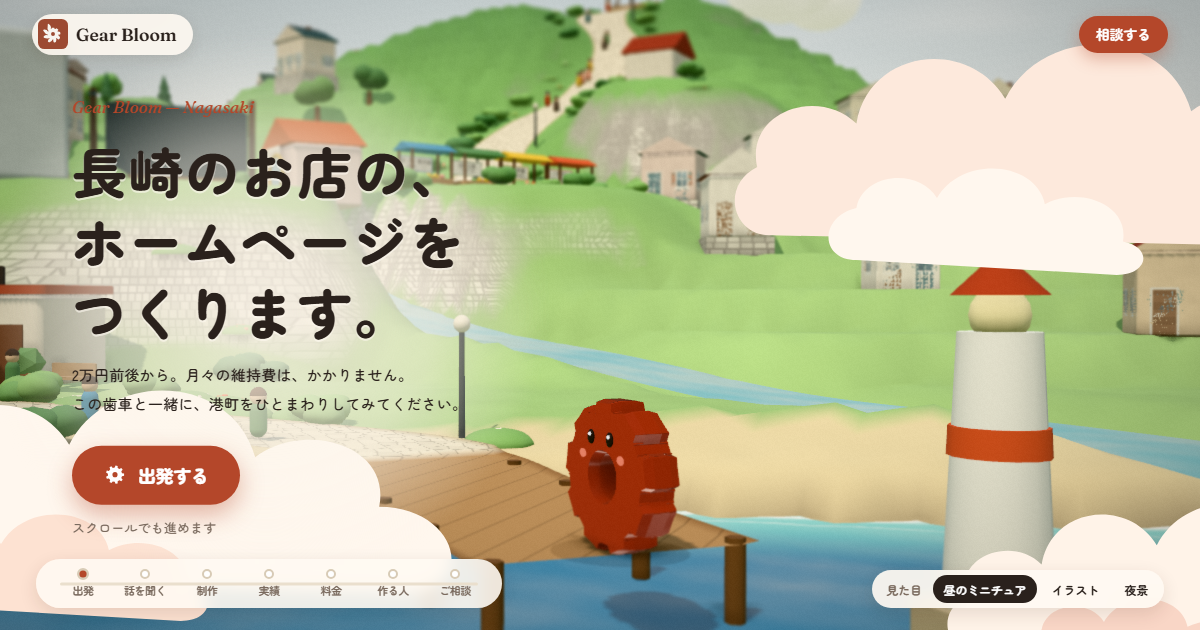
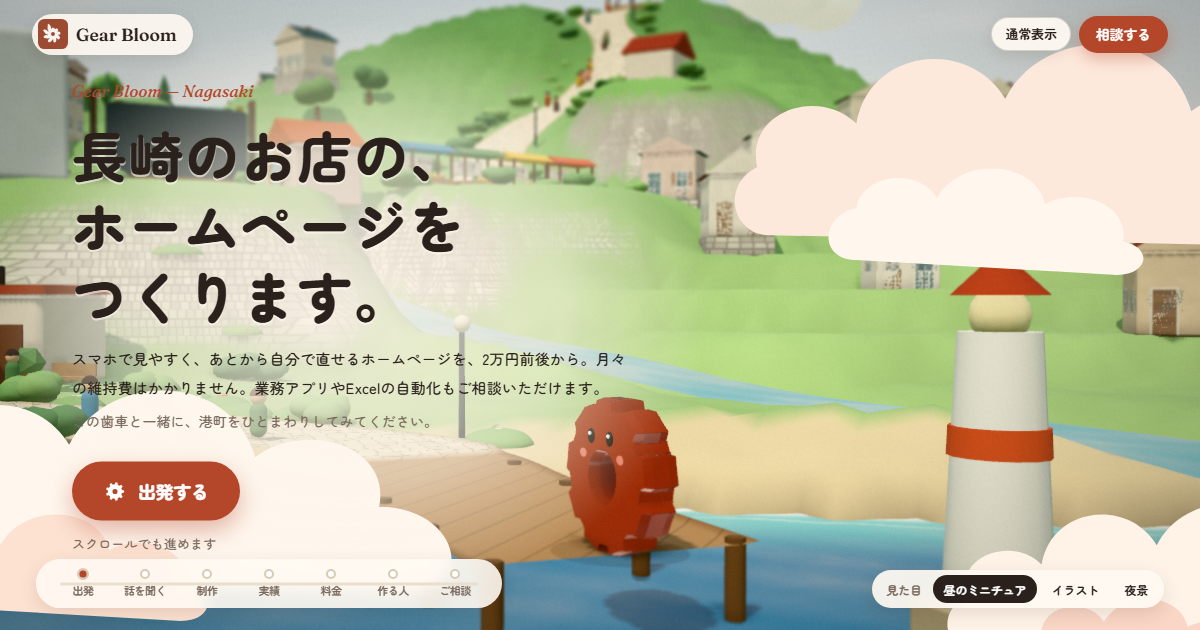
Gear Bloom新サイト試作：最後の見下ろしで全メニュー表示、文章の見直し、通常表示ボタン、読み込み中の歯車

diff --git a/s/1ac822bf3d69bbd7/index.html b/s/1ac822bf3d69bbd7/index.html
@@ -106,7 +106,8 @@ html[data-style="night"] .intro h1{text-shadow:none}
 .route a span{white-space:nowrap}
 
 .loading{position:fixed;inset:0;z-index:50;display:grid;place-items:center;background:var(--cream);transition:opacity .8s}
-.loading img{width:64px;height:64px;animation:spin 1.6s linear infinite}
+.loading .ld{display:flex;flex-direction:column;align-items:center;justify-content:center}
+.loading svg{width:78px;height:78px;display:block}
 .loading p{margin-top:12px;font-size:.85rem;color:var(--mute);text-align:center}
 @keyframes spin{to{rotate:360deg}}
 html.ready .loading{opacity:0;pointer-events:none}
@@ -196,6 +197,14 @@ html.at-intro .styleSw{opacity:1;pointer-events:auto}
   .intro h1{font-size:1.7rem}.intro p{font-size:.85rem}.intro .go{margin-top:1em;padding:.7em 1.4em}
 }
 
+
+.top .tr{display:flex;gap:8px;align-items:center}
+.classic{font-weight:700;font-size:.8rem;text-decoration:none;color:var(--ink);background:rgba(255,250,242,.92);backdrop-filter:blur(8px);border:1.5px solid rgba(42,33,28,.18);border-radius:99px;padding:.5em 1.05em;box-shadow:0 4px 14px rgba(60,35,20,.1)}
+.classic:hover{background:#fff}
+.intro .sub{margin-top:.4em;font-size:.88rem;color:var(--mute)}
+@media (max-width:760px){.classic{font-size:.72rem;padding:.5em .85em}.intro p{font-size:.88rem}.intro .sub{font-size:.8rem}}
+@media (max-width:370px){.brand{font-size:.9rem}}
+
 html.no3d #c,html.no3d .clouds,html.no3d #labels,html.no3d .route,html.no3d .loading,html.no3d #track{display:none}
 html.no3d .intro,html.no3d .panel{position:relative;inset:auto;translate:none;opacity:1;width:auto;max-width:720px;margin:24px auto;pointer-events:auto}
 html.no3d .intro{margin-top:120px}
@@ -203,16 +212,16 @@ html.no3d .intro{margin-top:120px}
 </head>
 <body>
 
-<div class="loading"><div><img src="https://gearbloom.jp/favicon.svg" alt=""><p>港町を組み立てています</p></div></div>
+<div class="loading"><div class="ld"><svg viewBox="-62 -62 124 124" aria-hidden="true"><path fill="#b4472a" fill-rule="evenodd" d="M0.00 -39.00 L1.13 -38.98 L2.27 -38.93 L3.40 -38.85 L4.53 -38.74 L5.75 -39.29 L7.51 -42.57 L9.45 -45.79 L11.53 -48.65 L12.94 -48.30 L14.34 -47.90 L15.73 -47.46 L17.10 -46.98 L18.46 -46.47 L19.80 -45.91 L21.13 -45.32 L22.44 -44.68 L22.19 -41.16 L21.62 -37.44 L20.84 -33.79 L21.43 -32.58 L22.37 -31.95 L23.29 -31.28 L24.19 -30.59 L25.07 -29.88 L25.93 -29.13 L26.76 -28.37 L27.58 -27.58 L28.37 -26.76 L29.66 -26.40 L33.12 -27.79 L36.68 -29.00 L40.11 -29.86 L40.96 -28.68 L41.77 -27.48 L42.56 -26.25 L43.30 -25.00 L44.01 -23.73 L44.68 -22.44 L45.32 -21.13 L45.91 -19.80 L43.45 -17.26 L40.62 -14.79 L37.69 -12.49 L37.36 -11.19 L37.67 -10.09 L37.95 -8.99 L38.19 -7.89 L38.41 -6.77 L38.59 -5.65 L38.74 -4.53 L38.85 -3.40 L38.93 -2.27 L39.69 -1.15 L43.23 -0.00 L46.74 1.36 L49.92 2.91 L49.81 4.36 L49.66 5.80 L49.47 7.25 L49.24 8.68 L48.97 10.11 L48.65 11.53 L48.30 12.94 L47.90 14.34 L44.38 14.71 L40.62 14.79 L36.90 14.66 L35.81 15.45 L35.35 16.48 L34.85 17.50 L34.33 18.51 L33.77 19.50 L33.19 20.47 L32.58 21.43 L31.95 22.37 L31.28 23.29 L31.15 24.63 L33.12 27.79 L34.93 31.08 L36.37 34.31 L35.36 35.36 L34.31 36.37 L33.24 37.35 L32.14 38.30 L31.01 39.22 L29.86 40.11 L28.68 40.96 L27.48 41.77 L24.55 39.80 L21.62 37.44 L18.84 34.95 L17.50 34.85 L16.48 35.35 L15.45 35.81 L14.40 36.24 L13.34 36.65 L12.27 37.02 L11.19 37.36 L10.09 37.67 L8.99 37.95 L8.03 38.88 L7.51 42.57 L6.78 46.26 L5.80 49.66 L4.36 49.81 L2.91 49.92 L1.45 49.98 L0.00 50.00 L-1.45 49.98 L-2.91 49.92 L-4.36 49.81 L-5.80 49.66 L-6.78 46.26 L-7.51 42.57 L-8.03 38.88 L-8.99 37.95 L-10.09 37.67 L-11.19 37.36 L-12.27 37.02 L-13.34 36.65 L-14.40 36.24 L-15.45 35.81 L-16.48 35.35 L-17.50 34.85 L-18.84 34.95 L-21.62 37.44 L-24.55 39.80 L-27.48 41.77 L-28.68 40.96 L-29.86 40.11 L-31.01 39.22 L-32.14 38.30 L-33.24 37.35 L-34.31 36.37 L-35.36 35.36 L-36.37 34.31 L-34.93 31.08 L-33.12 27.79 L-31.15 24.63 L-31.28 23.29 L-31.95 22.37 L-32.58 21.43 L-33.19 20.47 L-33.77 19.50 L-34.33 18.51 L-34.85 17.50 L-35.35 16.48 L-35.81 15.45 L-36.90 14.66 L-40.62 14.79 L-44.38 14.71 L-47.90 14.34 L-48.30 12.94 L-48.65 11.53 L-48.97 10.11 L-49.24 8.68 L-49.47 7.25 L-49.66 5.80 L-49.81 4.36 L-49.92 2.91 L-46.74 1.36 L-43.23 0.00 L-39.69 -1.15 L-38.93 -2.27 L-38.85 -3.40 L-38.74 -4.53 L-38.59 -5.65 L-38.41 -6.77 L-38.19 -7.89 L-37.95 -8.99 L-37.67 -10.09 L-37.36 -11.19 L-37.69 -12.49 L-40.62 -14.79 L-43.45 -17.26 L-45.91 -19.80 L-45.32 -21.13 L-44.68 -22.44 L-44.01 -23.73 L-43.30 -25.00 L-42.56 -26.25 L-41.77 -27.48 L-40.96 -28.68 L-40.11 -29.86 L-36.68 -29.00 L-33.12 -27.79 L-29.66 -26.40 L-28.37 -26.76 L-27.58 -27.58 L-26.76 -28.37 L-25.93 -29.13 L-25.07 -29.88 L-24.19 -30.59 L-23.29 -31.28 L-22.37 -31.95 L-21.43 -32.58 L-20.84 -33.79 L-21.62 -37.44 L-22.19 -41.16 L-22.44 -44.68 L-21.13 -45.32 L-19.80 -45.91 L-18.46 -46.47 L-17.10 -46.98 L-15.73 -47.46 L-14.34 -47.90 L-12.94 -48.30 L-11.53 -48.65 L-9.45 -45.79 L-7.51 -42.57 L-5.75 -39.29 L-4.53 -38.74 L-3.40 -38.85 L-2.27 -38.93 L-1.13 -38.98 Z M-0.00 -13.00 L-3.36 -12.56 L-6.50 -11.26 L-9.19 -9.19 L-11.26 -6.50 L-12.56 -3.36 L-13.00 -0.00 L-12.56 3.36 L-11.26 6.50 L-9.19 9.19 L-6.50 11.26 L-3.36 12.56 L-0.00 13.00 L3.36 12.56 L6.50 11.26 L9.19 9.19 L11.26 6.50 L12.56 3.36 L13.00 0.00 L12.56 -3.36 L11.26 -6.50 L9.19 -9.19 L6.50 -11.26 L3.36 -12.56 Z"><animate attributeName="d" dur="2.8s" repeatCount="indefinite" calcMode="spline" keyTimes="0;.35;.5;.85;1" keySplines=".6 0 .4 1;.6 0 .4 1;.6 0 .4 1;.6 0 .4 1" values="M0.00 -39.00 L1.13 -38.98 L2.27 -38.93 L3.40 -38.85 L4.53 -38.74 L5.75 -39.29 L7.51 -42.57 L9.45 -45.79 L11.53 -48.65 L12.94 -48.30 L14.34 -47.90 L15.73 -47.46 L17.10 -46.98 L18.46 -46.47 L19.80 -45.91 L21.13 -45.32 L22.44 -44.68 L22.19 -41.16 L21.62 -37.44 L20.84 -33.79 L21.43 -32.58 L22.37 -31.95 L23.29 -31.28 L24.19 -30.59 L25.07 -29.88 L25.93 -29.13 L26.76 -28.37 L27.58 -27.58 L28.37 -26.76 L29.66 -26.40 L33.12 -27.79 L36.68 -29.00 L40.11 -29.86 L40.96 -28.68 L41.77 -27.48 L42.56 -26.25 L43.30 -25.00 L44.01 -23.73 L44.68 -22.44 L45.32 -21.13 L45.91 -19.80 L43.45 -17.26 L40.62 -14.79 L37.69 -12.49 L37.36 -11.19 L37.67 -10.09 L37.95 -8.99 L38.19 -7.89 L38.41 -6.77 L38.59 -5.65 L38.74 -4.53 L38.85 -3.40 L38.93 -2.27 L39.69 -1.15 L43.23 -0.00 L46.74 1.36 L49.92 2.91 L49.81 4.36 L49.66 5.80 L49.47 7.25 L49.24 8.68 L48.97 10.11 L48.65 11.53 L48.30 12.94 L47.90 14.34 L44.38 14.71 L40.62 14.79 L36.90 14.66 L35.81 15.45 L35.35 16.48 L34.85 17.50 L34.33 18.51 L33.77 19.50 L33.19 20.47 L32.58 21.43 L31.95 22.37 L31.28 23.29 L31.15 24.63 L33.12 27.79 L34.93 31.08 L36.37 34.31 L35.36 35.36 L34.31 36.37 L33.24 37.35 L32.14 38.30 L31.01 39.22 L29.86 40.11 L28.68 40.96 L27.48 41.77 L24.55 39.80 L21.62 37.44 L18.84 34.95 L17.50 34.85 L16.48 35.35 L15.45 35.81 L14.40 36.24 L13.34 36.65 L12.27 37.02 L11.19 37.36 L10.09 37.67 L8.99 37.95 L8.03 38.88 L7.51 42.57 L6.78 46.26 L5.80 49.66 L4.36 49.81 L2.91 49.92 L1.45 49.98 L0.00 50.00 L-1.45 49.98 L-2.91 49.92 L-4.36 49.81 L-5.80 49.66 L-6.78 46.26 L-7.51 42.57 L-8.03 38.88 L-8.99 37.95 L-10.09 37.67 L-11.19 37.36 L-12.27 37.02 L-13.34 36.65 L-14.40 36.24 L-15.45 35.81 L-16.48 35.35 L-17.50 34.85 L-18.84 34.95 L-21.62 37.44 L-24.55 39.80 L-27.48 41.77 L-28.68 40.96 L-29.86 40.11 L-31.01 39.22 L-32.14 38.30 L-33.24 37.35 L-34.31 36.37 L-35.36 35.36 L-36.37 34.31 L-34.93 31.08 L-33.12 27.79 L-31.15 24.63 L-31.28 23.29 L-31.95 22.37 L-32.58 21.43 L-33.19 20.47 L-33.77 19.50 L-34.33 18.51 L-34.85 17.50 L-35.35 16.48 L-35.81 15.45 L-36.90 14.66 L-40.62 14.79 L-44.38 14.71 L-47.90 14.34 L-48.30 12.94 L-48.65 11.53 L-48.97 10.11 L-49.24 8.68 L-49.47 7.25 L-49.66 5.80 L-49.81 4.36 L-49.92 2.91 L-46.74 1.36 L-43.23 0.00 L-39.69 -1.15 L-38.93 -2.27 L-38.85 -3.40 L-38.74 -4.53 L-38.59 -5.65 L-38.41 -6.77 L-38.19 -7.89 L-37.95 -8.99 L-37.67 -10.09 L-37.36 -11.19 L-37.69 -12.49 L-40.62 -14.79 L-43.45 -17.26 L-45.91 -19.80 L-45.32 -21.13 L-44.68 -22.44 L-44.01 -23.73 L-43.30 -25.00 L-42.56 -26.25 L-41.77 -27.48 L-40.96 -28.68 L-40.11 -29.86 L-36.68 -29.00 L-33.12 -27.79 L-29.66 -26.40 L-28.37 -26.76 L-27.58 -27.58 L-26.76 -28.37 L-25.93 -29.13 L-25.07 -29.88 L-24.19 -30.59 L-23.29 -31.28 L-22.37 -31.95 L-21.43 -32.58 L-20.84 -33.79 L-21.62 -37.44 L-22.19 -41.16 L-22.44 -44.68 L-21.13 -45.32 L-19.80 -45.91 L-18.46 -46.47 L-17.10 -46.98 L-15.73 -47.46 L-14.34 -47.90 L-12.94 -48.30 L-11.53 -48.65 L-9.45 -45.79 L-7.51 -42.57 L-5.75 -39.29 L-4.53 -38.74 L-3.40 -38.85 L-2.27 -38.93 L-1.13 -38.98 Z M-0.00 -13.00 L-3.36 -12.56 L-6.50 -11.26 L-9.19 -9.19 L-11.26 -6.50 L-12.56 -3.36 L-13.00 -0.00 L-12.56 3.36 L-11.26 6.50 L-9.19 9.19 L-6.50 11.26 L-3.36 12.56 L-0.00 13.00 L3.36 12.56 L6.50 11.26 L9.19 9.19 L11.26 6.50 L12.56 3.36 L13.00 0.00 L12.56 -3.36 L11.26 -6.50 L9.19 -9.19 L6.50 -11.26 L3.36 -12.56 Z;M0.00 -57.00 L1.65 -56.65 L3.24 -55.63 L4.72 -53.96 L6.05 -51.72 L7.18 -49.00 L8.10 -45.91 L8.79 -42.58 L9.28 -39.15 L9.59 -35.77 L9.77 -32.64 L9.93 -29.96 L10.26 -28.19 L11.65 -29.33 L13.49 -31.28 L15.65 -33.57 L18.06 -35.95 L20.63 -38.27 L23.31 -40.37 L26.00 -42.15 L28.62 -43.51 L31.07 -44.37 L33.27 -44.69 L35.15 -44.46 L36.64 -43.66 L37.68 -42.34 L38.24 -40.53 L38.30 -38.30 L37.88 -35.74 L37.00 -32.92 L35.71 -29.97 L34.10 -26.97 L32.27 -24.02 L30.34 -21.24 L28.46 -18.72 L26.86 -16.57 L25.98 -15.00 L27.78 -14.98 L30.45 -15.29 L33.57 -15.65 L36.94 -15.93 L40.41 -16.05 L43.81 -15.95 L47.01 -15.58 L49.89 -14.94 L52.32 -14.02 L54.22 -12.85 L55.51 -11.46 L56.13 -9.90 L56.08 -8.21 L55.34 -6.47 L53.96 -4.72 L51.99 -3.03 L49.51 -1.44 L46.62 -0.00 L43.46 1.26 L40.16 2.34 L36.90 3.23 L33.84 3.96 L31.23 4.57 L29.54 5.21 L30.91 6.38 L33.15 7.86 L35.77 9.59 L38.54 11.54 L41.27 13.68 L43.81 15.95 L46.03 18.29 L47.82 20.63 L49.09 22.89 L49.79 25.01 L49.89 26.90 L49.36 28.50 L48.24 29.75 L46.55 30.62 L44.37 31.07 L41.77 31.10 L38.85 30.72 L35.71 29.97 L32.48 28.90 L29.26 27.61 L26.19 26.19 L23.38 24.78 L20.98 23.58 L19.28 22.98 L19.58 24.76 L20.34 27.33 L21.24 30.34 L22.11 33.61 L22.82 37.00 L23.31 40.37 L23.51 43.59 L23.37 46.54 L22.89 49.09 L22.07 51.16 L20.93 52.67 L19.50 53.56 L17.83 53.80 L15.98 53.38 L14.02 52.32 L12.01 50.67 L10.02 48.50 L8.10 45.91 L6.30 43.02 L4.67 39.96 L3.23 36.90 L1.98 34.01 L0.92 31.55 L0.00 30.00 L-0.92 31.55 L-1.98 34.01 L-3.23 36.90 L-4.67 39.96 L-6.30 43.02 L-8.10 45.91 L-10.02 48.50 L-12.01 50.67 L-14.02 52.32 L-15.98 53.38 L-17.83 53.80 L-19.50 53.56 L-20.93 52.67 L-22.07 51.16 L-22.89 49.09 L-23.37 46.54 L-23.51 43.59 L-23.31 40.37 L-22.82 37.00 L-22.11 33.61 L-21.24 30.34 L-20.34 27.33 L-19.58 24.76 L-19.28 22.98 L-20.98 23.58 L-23.38 24.78 L-26.19 26.19 L-29.26 27.61 L-32.48 28.90 L-35.71 29.97 L-38.85 30.72 L-41.77 31.10 L-44.37 31.07 L-46.55 30.62 L-48.24 29.75 L-49.36 28.50 L-49.89 26.90 L-49.79 25.01 L-49.09 22.89 L-47.82 20.63 L-46.03 18.29 L-43.81 15.95 L-41.27 13.68 L-38.54 11.54 L-35.77 9.59 L-33.15 7.86 L-30.91 6.38 L-29.54 5.21 L-31.23 4.57 L-33.84 3.96 L-36.90 3.23 L-40.16 2.34 L-43.46 1.26 L-46.62 0.00 L-49.51 -1.44 L-51.99 -3.03 L-53.96 -4.72 L-55.34 -6.47 L-56.08 -8.21 L-56.13 -9.90 L-55.51 -11.46 L-54.22 -12.85 L-52.32 -14.02 L-49.89 -14.94 L-47.01 -15.58 L-43.81 -15.95 L-40.41 -16.05 L-36.94 -15.93 L-33.57 -15.65 L-30.45 -15.29 L-27.78 -14.98 L-25.98 -15.00 L-26.86 -16.57 L-28.46 -18.72 L-30.34 -21.24 L-32.27 -24.02 L-34.10 -26.97 L-35.71 -29.97 L-37.00 -32.92 L-37.88 -35.74 L-38.30 -38.30 L-38.24 -40.53 L-37.68 -42.34 L-36.64 -43.66 L-35.15 -44.46 L-33.27 -44.69 L-31.07 -44.37 L-28.62 -43.51 L-26.00 -42.15 L-23.31 -40.37 L-20.63 -38.27 L-18.06 -35.95 L-15.65 -33.57 L-13.49 -31.28 L-11.65 -29.33 L-10.26 -28.19 L-9.93 -29.96 L-9.77 -32.64 L-9.59 -35.77 L-9.28 -39.15 L-8.79 -42.58 L-8.10 -45.91 L-7.18 -49.00 L-6.05 -51.72 L-4.72 -53.96 L-3.24 -55.63 L-1.65 -56.65 Z M-0.00 -13.00 L-3.36 -12.56 L-6.50 -11.26 L-9.19 -9.19 L-11.26 -6.50 L-12.56 -3.36 L-13.00 -0.00 L-12.56 3.36 L-11.26 6.50 L-9.19 9.19 L-6.50 11.26 L-3.36 12.56 L-0.00 13.00 L3.36 12.56 L6.50 11.26 L9.19 9.19 L11.26 6.50 L12.56 3.36 L13.00 0.00 L12.56 -3.36 L11.26 -6.50 L9.19 -9.19 L6.50 -11.26 L3.36 -12.56 Z;M0.00 -57.00 L1.65 -56.65 L3.24 -55.63 L4.72 -53.96 L6.05 -51.72 L7.18 -49.00 L8.10 -45.91 L8.79 -42.58 L9.28 -39.15 L9.59 -35.77 L9.77 -32.64 L9.93 -29.96 L10.26 -28.19 L11.65 -29.33 L13.49 -31.28 L15.65 -33.57 L18.06 -35.95 L20.63 -38.27 L23.31 -40.37 L26.00 -42.15 L28.62 -43.51 L31.07 -44.37 L33.27 -44.69 L35.15 -44.46 L36.64 -43.66 L37.68 -42.34 L38.24 -40.53 L38.30 -38.30 L37.88 -35.74 L37.00 -32.92 L35.71 -29.97 L34.10 -26.97 L32.27 -24.02 L30.34 -21.24 L28.46 -18.72 L26.86 -16.57 L25.98 -15.00 L27.78 -14.98 L30.45 -15.29 L33.57 -15.65 L36.94 -15.93 L40.41 -16.05 L43.81 -15.95 L47.01 -15.58 L49.89 -14.94 L52.32 -14.02 L54.22 -12.85 L55.51 -11.46 L56.13 -9.90 L56.08 -8.21 L55.34 -6.47 L53.96 -4.72 L51.99 -3.03 L49.51 -1.44 L46.62 -0.00 L43.46 1.26 L40.16 2.34 L36.90 3.23 L33.84 3.96 L31.23 4.57 L29.54 5.21 L30.91 6.38 L33.15 7.86 L35.77 9.59 L38.54 11.54 L41.27 13.68 L43.81 15.95 L46.03 18.29 L47.82 20.63 L49.09 22.89 L49.79 25.01 L49.89 26.90 L49.36 28.50 L48.24 29.75 L46.55 30.62 L44.37 31.07 L41.77 31.10 L38.85 30.72 L35.71 29.97 L32.48 28.90 L29.26 27.61 L26.19 26.19 L23.38 24.78 L20.98 23.58 L19.28 22.98 L19.58 24.76 L20.34 27.33 L21.24 30.34 L22.11 33.61 L22.82 37.00 L23.31 40.37 L23.51 43.59 L23.37 46.54 L22.89 49.09 L22.07 51.16 L20.93 52.67 L19.50 53.56 L17.83 53.80 L15.98 53.38 L14.02 52.32 L12.01 50.67 L10.02 48.50 L8.10 45.91 L6.30 43.02 L4.67 39.96 L3.23 36.90 L1.98 34.01 L0.92 31.55 L0.00 30.00 L-0.92 31.55 L-1.98 34.01 L-3.23 36.90 L-4.67 39.96 L-6.30 43.02 L-8.10 45.91 L-10.02 48.50 L-12.01 50.67 L-14.02 52.32 L-15.98 53.38 L-17.83 53.80 L-19.50 53.56 L-20.93 52.67 L-22.07 51.16 L-22.89 49.09 L-23.37 46.54 L-23.51 43.59 L-23.31 40.37 L-22.82 37.00 L-22.11 33.61 L-21.24 30.34 L-20.34 27.33 L-19.58 24.76 L-19.28 22.98 L-20.98 23.58 L-23.38 24.78 L-26.19 26.19 L-29.26 27.61 L-32.48 28.90 L-35.71 29.97 L-38.85 30.72 L-41.77 31.10 L-44.37 31.07 L-46.55 30.62 L-48.24 29.75 L-49.36 28.50 L-49.89 26.90 L-49.79 25.01 L-49.09 22.89 L-47.82 20.63 L-46.03 18.29 L-43.81 15.95 L-41.27 13.68 L-38.54 11.54 L-35.77 9.59 L-33.15 7.86 L-30.91 6.38 L-29.54 5.21 L-31.23 4.57 L-33.84 3.96 L-36.90 3.23 L-40.16 2.34 L-43.46 1.26 L-46.62 0.00 L-49.51 -1.44 L-51.99 -3.03 L-53.96 -4.72 L-55.34 -6.47 L-56.08 -8.21 L-56.13 -9.90 L-55.51 -11.46 L-54.22 -12.85 L-52.32 -14.02 L-49.89 -14.94 L-47.01 -15.58 L-43.81 -15.95 L-40.41 -16.05 L-36.94 -15.93 L-33.57 -15.65 L-30.45 -15.29 L-27.78 -14.98 L-25.98 -15.00 L-26.86 -16.57 L-28.46 -18.72 L-30.34 -21.24 L-32.27 -24.02 L-34.10 -26.97 L-35.71 -29.97 L-37.00 -32.92 L-37.88 -35.74 L-38.30 -38.30 L-38.24 -40.53 L-37.68 -42.34 L-36.64 -43.66 L-35.15 -44.46 L-33.27 -44.69 L-31.07 -44.37 L-28.62 -43.51 L-26.00 -42.15 L-23.31 -40.37 L-20.63 -38.27 L-18.06 -35.95 L-15.65 -33.57 L-13.49 -31.28 L-11.65 -29.33 L-10.26 -28.19 L-9.93 -29.96 L-9.77 -32.64 L-9.59 -35.77 L-9.28 -39.15 L-8.79 -42.58 L-8.10 -45.91 L-7.18 -49.00 L-6.05 -51.72 L-4.72 -53.96 L-3.24 -55.63 L-1.65 -56.65 Z M-0.00 -13.00 L-3.36 -12.56 L-6.50 -11.26 L-9.19 -9.19 L-11.26 -6.50 L-12.56 -3.36 L-13.00 -0.00 L-12.56 3.36 L-11.26 6.50 L-9.19 9.19 L-6.50 11.26 L-3.36 12.56 L-0.00 13.00 L3.36 12.56 L6.50 11.26 L9.19 9.19 L11.26 6.50 L12.56 3.36 L13.00 0.00 L12.56 -3.36 L11.26 -6.50 L9.19 -9.19 L6.50 -11.26 L3.36 -12.56 Z;M0.00 -39.00 L1.13 -38.98 L2.27 -38.93 L3.40 -38.85 L4.53 -38.74 L5.75 -39.29 L7.51 -42.57 L9.45 -45.79 L11.53 -48.65 L12.94 -48.30 L14.34 -47.90 L15.73 -47.46 L17.10 -46.98 L18.46 -46.47 L19.80 -45.91 L21.13 -45.32 L22.44 -44.68 L22.19 -41.16 L21.62 -37.44 L20.84 -33.79 L21.43 -32.58 L22.37 -31.95 L23.29 -31.28 L24.19 -30.59 L25.07 -29.88 L25.93 -29.13 L26.76 -28.37 L27.58 -27.58 L28.37 -26.76 L29.66 -26.40 L33.12 -27.79 L36.68 -29.00 L40.11 -29.86 L40.96 -28.68 L41.77 -27.48 L42.56 -26.25 L43.30 -25.00 L44.01 -23.73 L44.68 -22.44 L45.32 -21.13 L45.91 -19.80 L43.45 -17.26 L40.62 -14.79 L37.69 -12.49 L37.36 -11.19 L37.67 -10.09 L37.95 -8.99 L38.19 -7.89 L38.41 -6.77 L38.59 -5.65 L38.74 -4.53 L38.85 -3.40 L38.93 -2.27 L39.69 -1.15 L43.23 -0.00 L46.74 1.36 L49.92 2.91 L49.81 4.36 L49.66 5.80 L49.47 7.25 L49.24 8.68 L48.97 10.11 L48.65 11.53 L48.30 12.94 L47.90 14.34 L44.38 14.71 L40.62 14.79 L36.90 14.66 L35.81 15.45 L35.35 16.48 L34.85 17.50 L34.33 18.51 L33.77 19.50 L33.19 20.47 L32.58 21.43 L31.95 22.37 L31.28 23.29 L31.15 24.63 L33.12 27.79 L34.93 31.08 L36.37 34.31 L35.36 35.36 L34.31 36.37 L33.24 37.35 L32.14 38.30 L31.01 39.22 L29.86 40.11 L28.68 40.96 L27.48 41.77 L24.55 39.80 L21.62 37.44 L18.84 34.95 L17.50 34.85 L16.48 35.35 L15.45 35.81 L14.40 36.24 L13.34 36.65 L12.27 37.02 L11.19 37.36 L10.09 37.67 L8.99 37.95 L8.03 38.88 L7.51 42.57 L6.78 46.26 L5.80 49.66 L4.36 49.81 L2.91 49.92 L1.45 49.98 L0.00 50.00 L-1.45 49.98 L-2.91 49.92 L-4.36 49.81 L-5.80 49.66 L-6.78 46.26 L-7.51 42.57 L-8.03 38.88 L-8.99 37.95 L-10.09 37.67 L-11.19 37.36 L-12.27 37.02 L-13.34 36.65 L-14.40 36.24 L-15.45 35.81 L-16.48 35.35 L-17.50 34.85 L-18.84 34.95 L-21.62 37.44 L-24.55 39.80 L-27.48 41.77 L-28.68 40.96 L-29.86 40.11 L-31.01 39.22 L-32.14 38.30 L-33.24 37.35 L-34.31 36.37 L-35.36 35.36 L-36.37 34.31 L-34.93 31.08 L-33.12 27.79 L-31.15 24.63 L-31.28 23.29 L-31.95 22.37 L-32.58 21.43 L-33.19 20.47 L-33.77 19.50 L-34.33 18.51 L-34.85 17.50 L-35.35 16.48 L-35.81 15.45 L-36.90 14.66 L-40.62 14.79 L-44.38 14.71 L-47.90 14.34 L-48.30 12.94 L-48.65 11.53 L-48.97 10.11 L-49.24 8.68 L-49.47 7.25 L-49.66 5.80 L-49.81 4.36 L-49.92 2.91 L-46.74 1.36 L-43.23 0.00 L-39.69 -1.15 L-38.93 -2.27 L-38.85 -3.40 L-38.74 -4.53 L-38.59 -5.65 L-38.41 -6.77 L-38.19 -7.89 L-37.95 -8.99 L-37.67 -10.09 L-37.36 -11.19 L-37.69 -12.49 L-40.62 -14.79 L-43.45 -17.26 L-45.91 -19.80 L-45.32 -21.13 L-44.68 -22.44 L-44.01 -23.73 L-43.30 -25.00 L-42.56 -26.25 L-41.77 -27.48 L-40.96 -28.68 L-40.11 -29.86 L-36.68 -29.00 L-33.12 -27.79 L-29.66 -26.40 L-28.37 -26.76 L-27.58 -27.58 L-26.76 -28.37 L-25.93 -29.13 L-25.07 -29.88 L-24.19 -30.59 L-23.29 -31.28 L-22.37 -31.95 L-21.43 -32.58 L-20.84 -33.79 L-21.62 -37.44 L-22.19 -41.16 L-22.44 -44.68 L-21.13 -45.32 L-19.80 -45.91 L-18.46 -46.47 L-17.10 -46.98 L-15.73 -47.46 L-14.34 -47.90 L-12.94 -48.30 L-11.53 -48.65 L-9.45 -45.79 L-7.51 -42.57 L-5.75 -39.29 L-4.53 -38.74 L-3.40 -38.85 L-2.27 -38.93 L-1.13 -38.98 Z M-0.00 -13.00 L-3.36 -12.56 L-6.50 -11.26 L-9.19 -9.19 L-11.26 -6.50 L-12.56 -3.36 L-13.00 -0.00 L-12.56 3.36 L-11.26 6.50 L-9.19 9.19 L-6.50 11.26 L-3.36 12.56 L-0.00 13.00 L3.36 12.56 L6.50 11.26 L9.19 9.19 L11.26 6.50 L12.56 3.36 L13.00 0.00 L12.56 -3.36 L11.26 -6.50 L9.19 -9.19 L6.50 -11.26 L3.36 -12.56 Z;M0.00 -39.00 L1.13 -38.98 L2.27 -38.93 L3.40 -38.85 L4.53 -38.74 L5.75 -39.29 L7.51 -42.57 L9.45 -45.79 L11.53 -48.65 L12.94 -48.30 L14.34 -47.90 L15.73 -47.46 L17.10 -46.98 L18.46 -46.47 L19.80 -45.91 L21.13 -45.32 L22.44 -44.68 L22.19 -41.16 L21.62 -37.44 L20.84 -33.79 L21.43 -32.58 L22.37 -31.95 L23.29 -31.28 L24.19 -30.59 L25.07 -29.88 L25.93 -29.13 L26.76 -28.37 L27.58 -27.58 L28.37 -26.76 L29.66 -26.40 L33.12 -27.79 L36.68 -29.00 L40.11 -29.86 L40.96 -28.68 L41.77 -27.48 L42.56 -26.25 L43.30 -25.00 L44.01 -23.73 L44.68 -22.44 L45.32 -21.13 L45.91 -19.80 L43.45 -17.26 L40.62 -14.79 L37.69 -12.49 L37.36 -11.19 L37.67 -10.09 L37.95 -8.99 L38.19 -7.89 L38.41 -6.77 L38.59 -5.65 L38.74 -4.53 L38.85 -3.40 L38.93 -2.27 L39.69 -1.15 L43.23 -0.00 L46.74 1.36 L49.92 2.91 L49.81 4.36 L49.66 5.80 L49.47 7.25 L49.24 8.68 L48.97 10.11 L48.65 11.53 L48.30 12.94 L47.90 14.34 L44.38 14.71 L40.62 14.79 L36.90 14.66 L35.81 15.45 L35.35 16.48 L34.85 17.50 L34.33 18.51 L33.77 19.50 L33.19 20.47 L32.58 21.43 L31.95 22.37 L31.28 23.29 L31.15 24.63 L33.12 27.79 L34.93 31.08 L36.37 34.31 L35.36 35.36 L34.31 36.37 L33.24 37.35 L32.14 38.30 L31.01 39.22 L29.86 40.11 L28.68 40.96 L27.48 41.77 L24.55 39.80 L21.62 37.44 L18.84 34.95 L17.50 34.85 L16.48 35.35 L15.45 35.81 L14.40 36.24 L13.34 36.65 L12.27 37.02 L11.19 37.36 L10.09 37.67 L8.99 37.95 L8.03 38.88 L7.51 42.57 L6.78 46.26 L5.80 49.66 L4.36 49.81 L2.91 49.92 L1.45 49.98 L0.00 50.00 L-1.45 49.98 L-2.91 49.92 L-4.36 49.81 L-5.80 49.66 L-6.78 46.26 L-7.51 42.57 L-8.03 38.88 L-8.99 37.95 L-10.09 37.67 L-11.19 37.36 L-12.27 37.02 L-13.34 36.65 L-14.40 36.24 L-15.45 35.81 L-16.48 35.35 L-17.50 34.85 L-18.84 34.95 L-21.62 37.44 L-24.55 39.80 L-27.48 41.77 L-28.68 40.96 L-29.86 40.11 L-31.01 39.22 L-32.14 38.30 L-33.24 37.35 L-34.31 36.37 L-35.36 35.36 L-36.37 34.31 L-34.93 31.08 L-33.12 27.79 L-31.15 24.63 L-31.28 23.29 L-31.95 22.37 L-32.58 21.43 L-33.19 20.47 L-33.77 19.50 L-34.33 18.51 L-34.85 17.50 L-35.35 16.48 L-35.81 15.45 L-36.90 14.66 L-40.62 14.79 L-44.38 14.71 L-47.90 14.34 L-48.30 12.94 L-48.65 11.53 L-48.97 10.11 L-49.24 8.68 L-49.47 7.25 L-49.66 5.80 L-49.81 4.36 L-49.92 2.91 L-46.74 1.36 L-43.23 0.00 L-39.69 -1.15 L-38.93 -2.27 L-38.85 -3.40 L-38.74 -4.53 L-38.59 -5.65 L-38.41 -6.77 L-38.19 -7.89 L-37.95 -8.99 L-37.67 -10.09 L-37.36 -11.19 L-37.69 -12.49 L-40.62 -14.79 L-43.45 -17.26 L-45.91 -19.80 L-45.32 -21.13 L-44.68 -22.44 L-44.01 -23.73 L-43.30 -25.00 L-42.56 -26.25 L-41.77 -27.48 L-40.96 -28.68 L-40.11 -29.86 L-36.68 -29.00 L-33.12 -27.79 L-29.66 -26.40 L-28.37 -26.76 L-27.58 -27.58 L-26.76 -28.37 L-25.93 -29.13 L-25.07 -29.88 L-24.19 -30.59 L-23.29 -31.28 L-22.37 -31.95 L-21.43 -32.58 L-20.84 -33.79 L-21.62 -37.44 L-22.19 -41.16 L-22.44 -44.68 L-21.13 -45.32 L-19.80 -45.91 L-18.46 -46.47 L-17.10 -46.98 L-15.73 -47.46 L-14.34 -47.90 L-12.94 -48.30 L-11.53 -48.65 L-9.45 -45.79 L-7.51 -42.57 L-5.75 -39.29 L-4.53 -38.74 L-3.40 -38.85 L-2.27 -38.93 L-1.13 -38.98 Z M-0.00 -13.00 L-3.36 -12.56 L-6.50 -11.26 L-9.19 -9.19 L-11.26 -6.50 L-12.56 -3.36 L-13.00 -0.00 L-12.56 3.36 L-11.26 6.50 L-9.19 9.19 L-6.50 11.26 L-3.36 12.56 L-0.00 13.00 L3.36 12.56 L6.50 11.26 L9.19 9.19 L11.26 6.50 L12.56 3.36 L13.00 0.00 L12.56 -3.36 L11.26 -6.50 L9.19 -9.19 L6.50 -11.26 L3.36 -12.56 Z"/><animate attributeName="fill" dur="2.8s" repeatCount="indefinite" keyTimes="0;.35;.5;.85;1" values="#b4472a;#e2653f;#e2653f;#b4472a;#b4472a"/><animateTransform attributeName="transform" type="rotate" from="0" to="360" dur="5.6s" repeatCount="indefinite"/></path></svg><p>港町を組み立てています</p></div></div>
 <canvas id="c" aria-hidden="true"></canvas>
 <div id="labels"></div>
-<header class="top"><a class="brand" href="#"><img src="https://gearbloom.jp/favicon.svg" alt="">Gear Bloom</a><a class="dm" href="https://www.instagram.com/gearbloom/" target="_blank" rel="noopener">相談する</a></header>
+<header class="top"><a class="brand" href="#"><img src="https://gearbloom.jp/favicon.svg" alt="">Gear Bloom</a><nav class="tr"><a class="classic" href="https://gearbloom.jp/" title="文字と写真で、すぐ読めるページに切り替えます">通常表示</a><a class="dm" href="https://www.instagram.com/gearbloom/" target="_blank" rel="noopener">相談する</a></nav></header>
 <div class="clouds" id="clouds" aria-hidden="true"><svg class="c1" viewBox="0 0 600 300"><path fill="#fff7ee" d="M40 230 C 10 230 0 190 30 175 C 20 130 80 110 110 140 C 120 80 200 70 230 120 C 260 60 360 60 380 130 C 420 100 490 120 480 170 C 540 170 560 230 510 240 Z"/><path fill="#fde2d2" d="M110 250 C 80 250 80 215 110 208 C 115 180 160 175 175 200 C 195 165 255 170 262 205 C 290 190 330 205 325 235 C 350 240 345 262 320 262 Z"/></svg><svg class="c2" viewBox="0 0 600 300"><path fill="#fde9dc" d="M40 230 C 10 230 0 190 30 175 C 20 130 80 110 110 140 C 120 80 200 70 230 120 C 260 60 360 60 380 130 C 420 100 490 120 480 170 C 540 170 560 230 510 240 Z"/><path fill="#fff7ee" d="M110 250 C 80 250 80 215 110 208 C 115 180 160 175 175 200 C 195 165 255 170 262 205 C 290 190 330 205 325 235 C 350 240 345 262 320 262 Z"/></svg><svg class="c3" viewBox="0 0 600 300"><path fill="#fff3e8" d="M40 230 C 10 230 0 190 30 175 C 20 130 80 110 110 140 C 120 80 200 70 230 120 C 260 60 360 60 380 130 C 420 100 490 120 480 170 C 540 170 560 230 510 240 Z"/><path fill="#f9d6c6" d="M110 250 C 80 250 80 215 110 208 C 115 180 160 175 175 200 C 195 165 255 170 262 205 C 290 190 330 205 325 235 C 350 240 345 262 320 262 Z"/></svg></div>
 
 <section class="intro" id="intro">
   <span class="tag">Gear Bloom — Nagasaki</span>
   <h1>長崎のお店の、<br>ホームページを<br>つくります。</h1>
-  <p>2万円前後から。月々の維持費は、かかりません。<br>この歯車と一緒に、港町をひとまわりしてみてください。</p>
+  <p>スマホで見やすく、あとから自分で直せるホームページを、2万円前後から。月々の維持費はかかりません。業務アプリやExcelの自動化もご相談いただけます。</p><p class="sub">この歯車と一緒に、港町をひとまわりしてみてください。</p>
   <button class="go" id="go" type="button"><svg viewBox="-60 -60 120 120" aria-hidden="true"><path fill="currentColor" fill-rule="evenodd" d="M38.1 -8.1 L49.6 -5.9 L49.6 5.9 L38.1 8.1 L34.4 18.3 L41.8 27.4 L34.2 36.4 L24.0 30.7 L14.6 36.2 L14.5 47.9 L2.8 49.9 L-1.4 39.0 L-12.1 37.1 L-19.7 46.0 L-30.0 40.0 L-26.1 29.0 L-33.1 20.7 L-44.6 22.5 L-48.7 11.4 L-38.6 5.4 L-38.6 -5.4 L-48.7 -11.4 L-44.6 -22.5 L-33.1 -20.7 L-26.1 -29.0 L-30.0 -40.0 L-19.7 -46.0 L-12.1 -37.1 L-1.4 -39.0 L2.8 -49.9 L14.5 -47.9 L14.6 -36.2 L24.0 -30.7 L34.2 -36.4 L41.8 -27.4 L34.4 -18.3 Z M14 0 a14 14 0 1 0 -28 0 a14 14 0 1 0 28 0 Z"/></svg>出発する</button>
   <small>スクロールでも進めます</small>
 </section>
@@ -220,36 +229,36 @@ html.no3d .intro{margin-top:120px}
 <aside class="panel" data-stop="listen">
   <figure class="ph"><img src="https://gearbloom.jp/assets/owner-tablet.jpg" alt="" loading="lazy"><figcaption>まずは、お話から</figcaption></figure>
   <span class="no">01<i></i>話を聞く</span>
-  <h2>まず、話を聞くところから。</h2>
+  <h2>お店のことを、<br>まず聞かせてください。</h2>
   <div class="bubbles"><span>どんなお店？</span><span>だれに見てほしい？</span><span>何を載せたい？</span></div>
-  <p>いちばん時間をかけるのは、ここです。InstagramのDMから、「何から相談すればいいか分からない」段階で構いません。</p>
-  <p class="note">お断りいただいても、こちらから追いかけることはありません。</p>
+  <p>どんなお店で、だれに来てほしいか。ホームページに何を載せるかは、この話から決まります。いちばん時間をかけるのがここです。</p><p>「何を載せればいいか分からない」段階で大丈夫です。お店の良さを、一緒に言葉にしていきます。</p>
+  <p class="note">相談だけで終わっても構いません。こちらから追いかけることはありません。</p>
 </aside>
 <aside class="panel" data-stop="build">
   <figure class="ph"><img src="https://gearbloom.jp/assets/desk-work.jpg" alt="" loading="lazy"><figcaption>作るもの</figcaption></figure>
   <span class="no">02<i></i>制作</span>
-  <h2>作る人ではなく、<br>使う人がつまずく場所を考えて。</h2>
+  <h2>スマホで見やすく、<br>自分たちで直せるものを。</h2>
   <ul class="svc">
     <li><span class="ico"><svg viewBox="0 0 24 24" fill="none" stroke="currentColor" stroke-width="1.8" stroke-linecap="round" stroke-linejoin="round" aria-hidden="true"><rect x="7" y="2" width="10" height="20" rx="2"/><path d="M11 18h2"/></svg></span><div>ホームページ制作<small>スマホでの見え方に合わせて、数ページの静的サイトを中心に</small></div><em>2万円〜</em></li>
     <li><span class="ico"><svg viewBox="0 0 24 24" fill="none" stroke="currentColor" stroke-width="1.8" stroke-linecap="round" stroke-linejoin="round" aria-hidden="true"><rect x="3" y="4" width="18" height="16" rx="2"/><path d="M3 9h18M7 13h4M7 16h7"/></svg></span><div>業務アプリ開発<small>日々の業務で使う、小規模なツール</small></div><em>応相談</em></li>
     <li><span class="ico"><svg viewBox="0 0 24 24" fill="none" stroke="currentColor" stroke-width="1.8" stroke-linecap="round" stroke-linejoin="round" aria-hidden="true"><rect x="3" y="4" width="18" height="16" rx="1"/><path d="M3 9h18M3 14h18M9 4v16M15 4v16"/></svg></span><div>Excelマクロ制作<small>集計・転記・レポート出力など、毎月の繰り返しを自動化</small></div><em>応相談</em></li>
   </ul>
-  <p class="note">サーバーを使わない構成にできるので、月々の維持費がかからないことが多いです。</p>
+  <p class="note">ご希望に応じて、スマホから記事や写真を更新できる管理画面もお付けします。サーバーを使わない構成にできるので、月々の維持費がかからないことが多いです。</p>
 </aside>
 <aside class="panel" data-stop="works">
   <span class="no">03<i></i>実績</span>
-  <h2>口で言うより、<br>動かして見てもらう。</h2>
+  <h2>作ったものを、<br>実際に触ってみてください。</h2>
   <div class="works">
     <a href="https://miyabi0857.github.io/react-yosakoi-site/" target="_blank" rel="noopener"><img src="https://gearbloom.jp/assets/demo-react.jpg" alt="" loading="lazy"><b>ReAct!!</b><small>ご依頼いただいた制作</small></a>
     <a href="https://gearbloom.jp/demo/salon/" target="_blank" rel="noopener"><img src="https://gearbloom.jp/assets/demo-salon.jpg" alt="" loading="lazy"><b>なぎさ堂</b><small>制作サンプル／美容室</small></a>
     <a href="https://gearbloom.jp/demo/trattoria/" target="_blank" rel="noopener"><img src="https://gearbloom.jp/assets/demo-trattoria.jpg" alt="" loading="lazy"><b>トラットリア南風</b><small>制作サンプル／飲食店</small></a>
     <a href="https://gearbloom.jp/hakadori.html" target="_blank" rel="noopener"><img src="https://gearbloom.jp/assets/hakadori-dashboard.png" alt="" loading="lazy"><b>はかどり</b><small>自作のタスク管理ツール</small></a>
   </div>
-  <p class="note">実績としてお見せできるのは ReAct!! 様の1件です。なぎさ堂と南風は、こういうものが作れますという見本として自分で作りました。</p>
+  <p class="note">押すと本物のページが開きます。ご依頼いただいた実績は ReAct!! 様の1件で、なぎさ堂と南風は「こういうものが作れます」という見本として自分で作ったものです。</p>
 </aside>
 <aside class="panel" data-stop="price">
   <span class="no">04<i></i>料金</span>
-  <h2>いくらで、どう進むか。</h2>
+  <h2>料金と進め方は、<br>先にお伝えします。</h2>
   <ol class="flow">
     <li><span><svg viewBox="0 0 24 24" fill="none" stroke="currentColor" stroke-width="1.8" stroke-linecap="round" stroke-linejoin="round" aria-hidden="true"><path d="M4 5h16v10H9l-5 4z"/></svg></span>ご相談</li><li><span><svg viewBox="0 0 24 24" fill="none" stroke="currentColor" stroke-width="1.8" stroke-linecap="round" stroke-linejoin="round" aria-hidden="true"><path d="M8 10a4 4 0 1 1 8 0c0 3-3 3.5-3 6a2.5 2.5 0 0 1-5 0"/></svg></span>ヒアリング</li><li><span><svg viewBox="0 0 24 24" fill="none" stroke="currentColor" stroke-width="1.8" stroke-linecap="round" stroke-linejoin="round" aria-hidden="true"><path d="M7 4l5 7 5-7M12 11v9M8 13h8M8 16h8"/></svg></span>お見積り</li><li><span><svg viewBox="0 0 24 24" fill="none" stroke="currentColor" stroke-width="1.8" stroke-linecap="round" stroke-linejoin="round" aria-hidden="true"><path d="M4 20l4-1 11-11-3-3L5 16z"/><path d="M14 6l3 3"/></svg></span>制作</li><li><span><svg viewBox="0 0 24 24" fill="none" stroke="currentColor" stroke-width="1.8" stroke-linecap="round" stroke-linejoin="round" aria-hidden="true"><path d="M2 12s4-7 10-7 10 7 10 7-4 7-10 7S2 12 2 12z"/><circle cx="12" cy="12" r="3"/></svg></span>ご確認</li><li><span><svg viewBox="0 0 24 24" fill="none" stroke="currentColor" stroke-width="1.8" stroke-linecap="round" stroke-linejoin="round" aria-hidden="true"><rect x="4" y="9" width="16" height="11" rx="1"/><path d="M4 13h16M12 9v11M12 9s-4-5-6-3 2 3 6 3zm0 0s4-5 6-3-2 3-6 3z"/></svg></span>納品</li>
   </ol>
@@ -263,8 +272,8 @@ html.no3d .intro{margin-top:120px}
 <aside class="panel" data-stop="maker">
   <figure class="ph tall"><img src="https://gearbloom.jp/assets/founder.jpg" alt="野﨑 大雅" loading="lazy" style="object-position:62% 30%"><figcaption class="name"><b>野﨑 大雅</b>Gear Bloom 運営者</figcaption></figure>
   <span class="no">05<i></i>作る人</span>
-  <h2>作るのは、この人間ひとりです。</h2>
-  <p>本業は企業の人事部門で、新卒採用と社内広報、それに自社ホームページの運営を担当しています。「作ってもらったはいいけれど、更新の仕方が分からず放置してしまう」ホームページを何度も見てきました。</p>
+  <h2>相談から納品まで、<br>同じ人が担当します。</h2>
+  <p>本業は企業の人事部門で、自社ホームページの運営も担当しています。「作ってもらったけれど、更新の仕方が分からず放置している」ホームページを何度も見てきました。だから、作ったあとにお店の方が自分で使い続けられることを、いちばん大事にしています。</p>
   <ul class="tags"><li>専門用語を使わずに説明します</li><li>平日は夜間、土日は日中</li><li>データも著作権もお客様に</li></ul>
 </aside>
 <aside class="panel" data-stop="goal">
@@ -275,8 +284,8 @@ html.no3d .intro{margin-top:120px}
     <p class="typing"><i></i><i></i><i></i></p>
   </div>
   <span class="no">06<i></i>ご相談</span>
-  <h2>まずは気軽に、DMから。</h2>
-  <p>歯車がひとつ回ると、お店が動きだす。Gear Bloom という名前は、そこから取りました。ホームページも、業務アプリも、Excelのマクロも、お店の歯車をひとつ回す仕事だと思っています。</p>
+  <h2>まずは、DMで<br>一言ください。</h2>
+  <p>お店の名前と、困っていることを一言だけ。ふだん2〜3日以内にお返事します。見積りが必要かどうかも含めて、相談だけで終わっても大丈夫です。</p><p class="note">歯車がひとつ回ると、お店が動きだす。Gear Bloom という名前は、そこから取りました。</p>
   <div class="cta"><a class="p" href="https://www.instagram.com/gearbloom/" target="_blank" rel="noopener">InstagramのDMで相談する</a><a class="s" href="#" data-jump="start" onclick="scrollTo({top:0,behavior:'smooth'});return false;">もう一度はじめから</a></div>
   <p class="note">上のやりとりはイメージです。</p>
 </aside>
@@ -1507,6 +1516,36 @@ function resize() {
 }
 addEventListener('resize', resize); resize(); readScroll();
 
+/* final overview: frame all five stops inside the part of the screen the card, header and route leave free,
+   so every menu label can be shown on any screen shape */
+let ovCache = null;
+addEventListener('resize', () => { ovCache = null; });
+function getOverview() {
+  if (ovCache) return ovCache;
+  const w = innerWidth, h = innerHeight, gp = panels.find(p => p.dataset.stop === 'goal');
+  const L = 80, T = (SP ? 92 : 78) + 56;
+  const R = SP ? w - 80 : Math.min(w - 80, (gp ? gp.offsetLeft : w * .6) - 80);
+  const B = SP ? h - 10 - (gp ? gp.offsetHeight : h * .5) - 24 : h - 100;
+  const pts = stopLabels.map(l => l.pos);
+  const cam = camera.clone(), q = new THREE.Vector3(), rgt = new THREE.Vector3(), upv = new THREE.Vector3();
+  const dir = OVERVIEW.pos.clone().sub(OVERVIEW.look).normalize();
+  const look = pts.reduce((a, p) => a.add(p), new THREE.Vector3()).multiplyScalar(1 / pts.length); look.y -= 6;
+  let dist = OVERVIEW.pos.distanceTo(OVERVIEW.look) * .7;
+  const fullH = cam.view && cam.view.enabled ? cam.view.fullHeight : h;
+  for (let it = 0; it < 60; it++) {
+    cam.position.copy(look).addScaledVector(dir, dist); cam.lookAt(look); cam.updateMatrixWorld();
+    let x0 = 1e9, x1 = -1e9, y0 = 1e9, y1 = -1e9;
+    for (const p of pts) { q.copy(p).project(cam); const x = (q.x + 1) / 2 * w, y = (1 - q.y) / 2 * h; x0 = Math.min(x0, x); x1 = Math.max(x1, x); y0 = Math.min(y0, y); y1 = Math.max(y1, y); }
+    const sc = Math.max((x1 - x0) / Math.max(40, R - L), (y1 - y0) / Math.max(40, B - T));
+    const px = 2 * dist * Math.tan(cam.fov * Math.PI / 360) / fullH;
+    rgt.setFromMatrixColumn(cam.matrixWorld, 0); upv.setFromMatrixColumn(cam.matrixWorld, 1);
+    look.addScaledVector(rgt, ((x0 + x1) / 2 - (L + R) / 2) * px * .7).addScaledVector(upv, -((y0 + y1) / 2 - (T + B) / 2) * px * .7);
+    dist = Math.min(900, Math.max(90, dist * Math.pow(sc / .9, .5)));
+  }
+  ovCache = { pos: look.clone().addScaledVector(dir, dist), look: look.clone(), dist };
+  return ovCache;
+}
+
 /* ---------------- frame ---------------- */
 const camPos = stopView(0).pos.clone(), camLook = stopView(0).look.clone();
 const tmpA = new THREE.Vector3(), tmpB = new THREE.Vector3(), M4 = new THREE.Matrix4(), Q4 = new THREE.Quaternion(), S4 = new THREE.Vector3(), P4 = new THREE.Vector3();
@@ -1583,7 +1622,7 @@ function frame(now) {
   let want;
   if (J.dwell !== null) {
     want = stopView(J.stop);
-    if (J.stop === goalI) { const o = sstep(.62, .95, gd); want = { pos: want.pos.clone().lerp(OVERVIEW.pos, o), look: want.look.clone().lerp(OVERVIEW.look, o) }; }
+    if (J.stop === goalI) { const o = sstep(.62, .95, gd), OV = getOverview(); want = { pos: want.pos.clone().lerp(OV.pos, o), look: want.look.clone().lerp(OV.look, o) }; }
   } else {
     const tv = travelView(J.s), a = stopView(J.from), b = stopView(J.to);
     const k0 = 1 - sstep(0, .28, J.travel), k1 = sstep(.7, 1, J.travel);
@@ -1601,7 +1640,7 @@ function frame(now) {
     const want = J.stop === goalI && gd > .6 ? .5 : Math.min(.8, Math.max(.2, (tmpB.y + 1) / 2));
     focusR += (want - focusR) * (REDUCE || SNAP ? 1 : 1 - Math.exp(-dt * 5));
     composer.th.uniforms.r.value = composer.tv.uniforms.r.value = focusR; }
-  scene.fog.near = J.stop === goalI ? lerp(150, 280, sstep(.6, 1, gd)) : 150; scene.fog.far = J.stop === goalI ? lerp(560, 950, sstep(.6, 1, gd)) : 560;
+  { const od = getOverview().dist, k = J.stop === goalI ? sstep(.6, 1, gd) : 0; scene.fog.near = lerp(150, Math.max(280, od * 1.1), k); scene.fog.far = lerp(560, Math.max(950, od * 3), k); }
 
   /* sun follows the action so shadows stay crisp */
   const sunDir = sunDirFor(T);
@@ -1653,6 +1692,14 @@ function frame(now) {
   // otherwise only the stop we are at (or arriving at) is labelled
   const near = J.stop >= 0 ? J.stop : (J.travel > .6 ? J.to : -1);
   stopLabels.forEach(l => { l.el.classList.toggle('big', over); proj(l.pos, l.el, !intro0 && (over || STOPS[near] === l.s)); });
+  // in the overview, labels that would overlap are nudged apart (the lower one moves down)
+  if (over) {
+    const L2 = stopLabels.map(l => { tmpA.copy(l.pos).project(camera); return { l, x: (tmpA.x + 1) / 2 * w, y: (1 - tmpA.y) / 2 * h, hw: l.el.offsetWidth / 2 + 4, hh: l.el.offsetHeight + 4 }; }).sort((a, b) => a.y - b.y);
+    for (let it = 0; it < 4; it++) for (let i = 0; i < L2.length; i++) for (let j = i + 1; j < L2.length; j++) {
+      const a = L2[i], b = L2[j]; if (Math.abs(a.x - b.x) < a.hw + b.hw && b.y - b.hh < a.y) b.y = a.y + b.hh;
+    }
+    L2.forEach(o => { if (o.l.el.style.opacity === '1') o.l.el.style.transform = `translate(${o.x.toFixed(1)}px,${o.y.toFixed(1)}px) translate(-50%,-100%)`; });
+  }
   const atWorks = J.stop === STOPS.findIndex(s => s.id === 'works'); workLabels.forEach(l => proj(l.pos, l.el, atWorks && J.dwell > .05));
 
   composer.c.render(dt);
